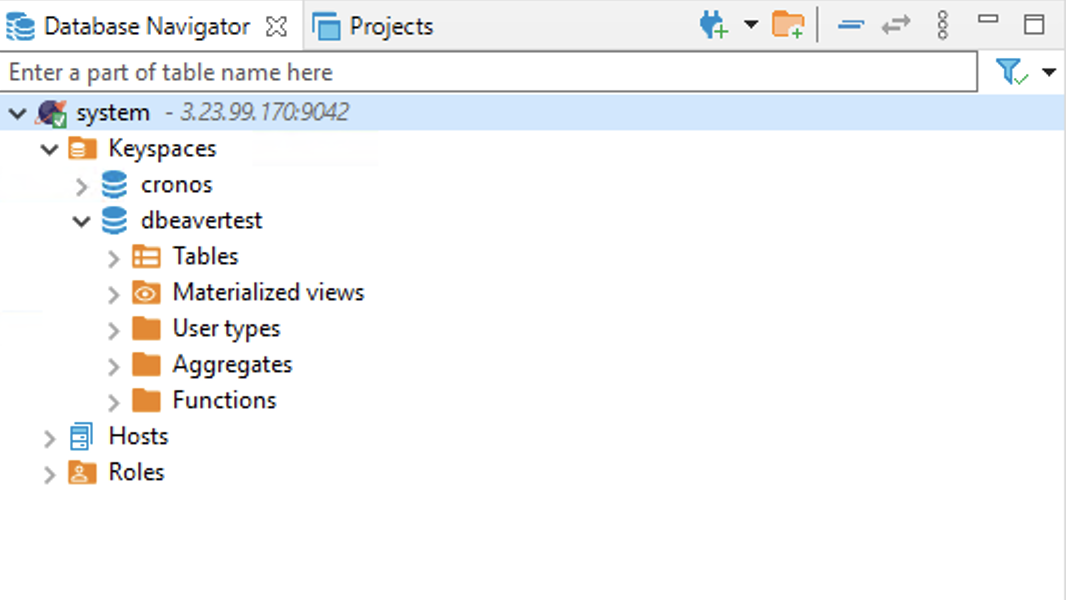
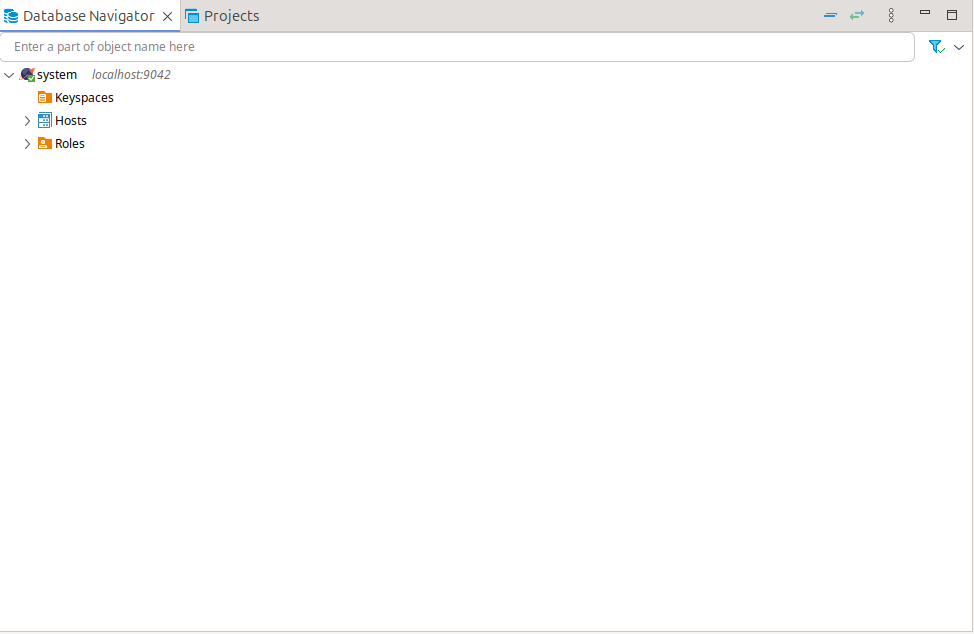
YSQL: Update DBeaver YCQL documentation to include CA certificate setup and SSL configuration

Changed region(s): [[0.0, 0.0, 1.0, 1.0]]

diff --git a/docs/content/preview/integrations/tools/dbeaver-ycql.md b/docs/content/preview/integrations/tools/dbeaver-ycql.md
@@ -33,6 +33,20 @@ Before you can start using DBeaver with YCQL, you need to perform the following:
 
 - Install [DBeaver Enterprise Edition](https://dbeaver.com/download/enterprise/).
 
+- `ca.crt` — root certificate file. If the YugabyteDB cluster has encryption in transit enabled, your client needs `root.ca` to establish a connection. You need to download or generate it from the YugabyteDB cluster and add it to the Java TrustStore before using it in DBeaver. For more information, see [Generate the root certificate file](../../../secure/tls-encryption/server-certificates/#generate-the-root-certificate-file) for instructions on how to generate this file.
+
+  {{< note title="Add `root.crt` to Java Keystore" >}}
+
+To add the CA certificate to the Java Keystore, you can use the following command:
+
+```bash
+keytool -importcert -alias root-ca -file root.crt -keystore keystore_name.jks -storetype JKS -storepass <replace_with_your_password_here> -noprompt
+```
+
+Replace `root.crt` with the path to the CA certificate file, `keystore_name.jks` with the path to the Java Keystore file and `password_here`for the YugabyteDB keystore password.
+
+  {{< /note >}}
+
 ## Create a YCQL connection
 
 You can create a connection as follows:
@@ -43,17 +57,24 @@ You can create a connection as follows:
 
     ![DBeaver Select Database](/images/develop/tools/dbeaver/dbeaver-select-db-ycql.png)
 
-- Use **Connection Settings** to specify the following:
-  - **Host**: localhost
-  - **Port**: 9042
+- In the **Main** tab of **Yugabyte CQL Connection Settings** window, use **Connection Settings** to specify the following:
+  - **Host**: Enter the IP address of the YugabyteDB node. If you are running DBeaver on the same machine as YugabyteDB, you can use `localhost`.
+  - **Port**: 9042 (default port for YCQL).
   - **Keyspace**: system
   - **User**: leave blank if YCQL authentication is not enabled. If enabled, enter username.
   - **Password**: leave blank if YCQL authentication is not enabled. If enabled, enter the password.
-  - Select **Show all databases**.
+  - **Dataceter**: Leave blank unless you YugabyteDB server in specific Datacenter.
 
-- Click **Test Connection** to verify that the connection is successful, as shown in the following illustration:
+- If your YugabyteDB cluster has encryption in transit enabled, click the **SSL** tab and select the **Use SSL** checkbox. Then, specify following:
+  - Under **Parameters** select **Keystore**.
+  - **Keystore**: Provide keystore file path having suffix `.jks`
+  - **Keystore Password**: Provide the password for the keystore file.
 
+  Ensure you have stored the CA certificate in the Java Keystore as described in the [Prerequisites](#prerequisites) section.
+
+- Select **Test Connection** to verify that the connection is successful, as shown in the following illustration:
     ![DBeaver Test Connection](/images/develop/tools/dbeaver/dbeaver-test-conn-ycql.png)
+- Click **Finish** to save the connection.
 
 The **Database Navigator** should display "system".
 
